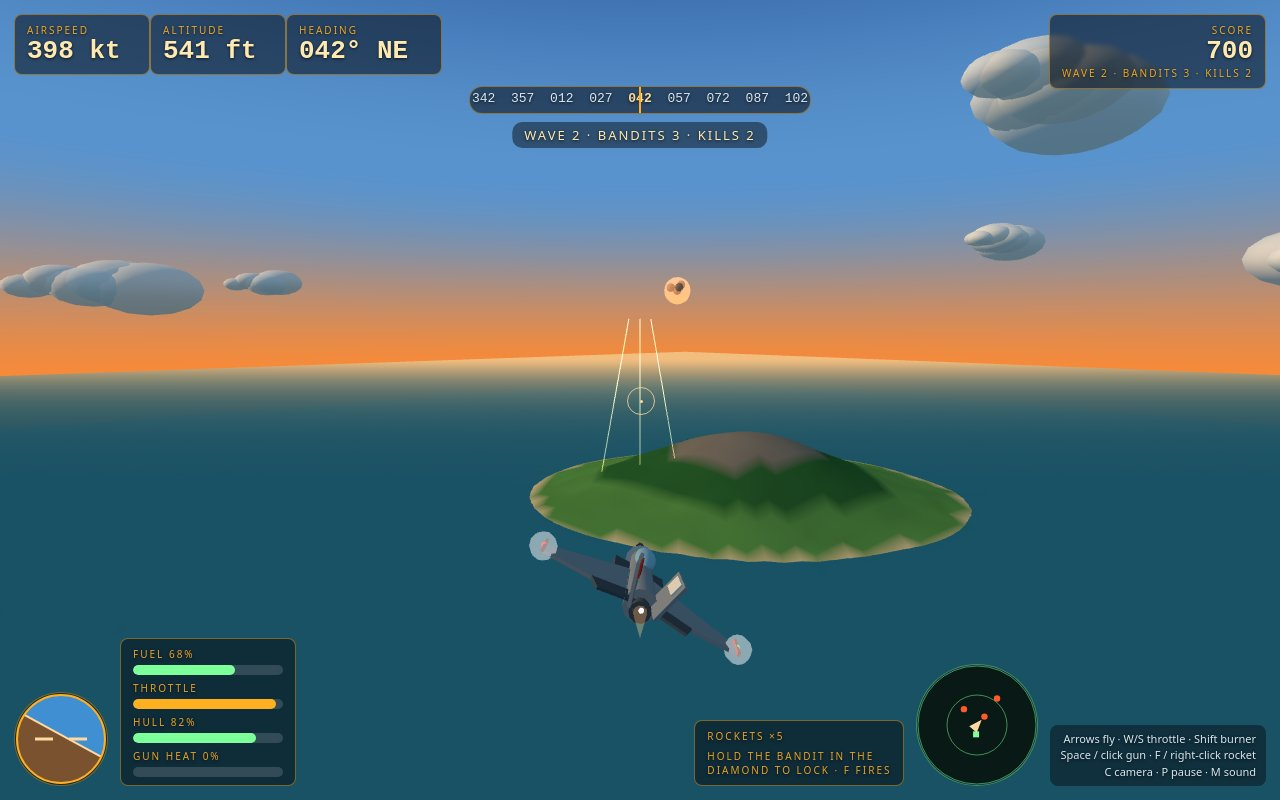
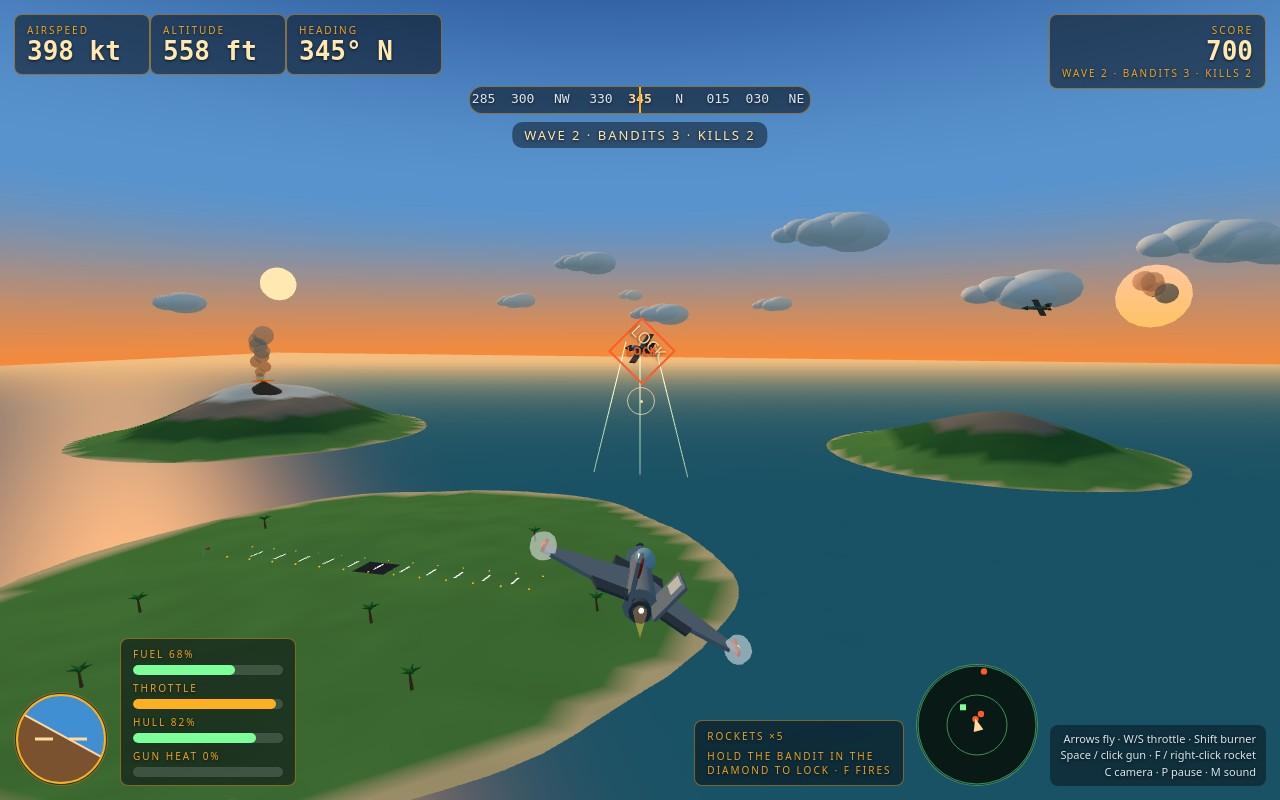
Cover: dogfight reads at a glance — bandit in the lock diamond, volcano + islands in frame
- Stage the play shot facing NW over the archipelago: smoking volcano
  left horizon, green island right, home island and runway below
- Bandit crosses the nose banked and close (~130 m) so its silhouette
  fills the lock diamond instead of a dead-astern speck; wingman breaks
  right, explosion in frame right
- Fix a real staging bug: enemy meshes only follow state in step(), which
  a staged shot never runs, so bandits sat at the origin — add
  enemy.pose() and call it from the play staging
- HUD lock diamond is projected through the chase camera, so update the
  HUD after the first snapped draw in runShot instead of before it

diff --git a/game/src/shots.js b/game/src/shots.js
@@ -31,9 +31,11 @@ export function stageShot(name, world, renderer, hud, combat) {
     return { screen: 'title', best: 0 };
   }
   if (name === 'play') {
-    // Mid-dogfight over the sea: the player is on a bandit's tail, the
-    // gun is firing, a second bandit breaks away and one more burns in
-    // the distance. Burner lit, lock solid, HUD alive.
+    // Mid-dogfight over the archipelago: the player is on a bandit's tail,
+    // the bandit close enough to fill the lock diamond, the smoking
+    // volcano on the left horizon, the green island on the right, and the
+    // home island below. A second bandit breaks away to the right and one
+    // more burns in the distance. Burner lit, lock solid, HUD alive.
     world.reset(false);
     s.wave = 2;
     s.kills = 2;
@@ -45,11 +47,18 @@ export function stageShot(name, world, renderer, hud, combat) {
     const bandit = world.enemies[0];
     const wingman = world.enemies[1];
     if (bandit) {
-      bandit.state.pos.set(180, 190, -260);
-      bandit.state.heading = Math.PI * 0.75;
+      // ~130 m ahead, crossing left across the nose and banked, so the
+      // bandit's wings and top show instead of a dead-astern speck: the
+      // silhouette fills the 44 px lock diamond.
+      bandit.state.pos.set(267, 178, 374);
+      bandit.state.heading = 1.06;
+      bandit.state.roll = 0.8;
       bandit.state.speed = 160;
       bandit.state.health = 7;
-      s.pos.set(20, 165, -80);
+      // Flying ~15 deg west of north from south-east of the map: the
+      // smoking volcano sits ~30 deg left of the nose on the horizon and
+      // the green island ~29 deg right, with the home island's sea below.
+      s.pos.set(300, 170, 500);
       s.heading = headingToward(s.pos, bandit.state.pos);
       s.pitch = -0.04;
       s.roll = -0.5;
@@ -84,14 +93,20 @@ export function stageShot(name, world, renderer, hud, combat) {
           z: s.pos.z - dir.z * (30 + i * 14),
         });
       }
+      // The mesh only follows the state in step(), which a staged shot
+      // never runs: pose it here or the bandit stays at the origin.
+      bandit.pose();
     }
     if (wingman) {
-      wingman.state.pos.set(-260, 240, -420);
-      wingman.state.heading = Math.PI * 0.3;
+      // Breaking away to the right, ~21 deg east of north and in frame.
+      wingman.state.pos.set(385, 190, 265);
+      wingman.state.heading = 0.9;
+      wingman.state.roll = -0.6;
       wingman.state.speed = 170;
+      wingman.pose();
     }
-    // A bandit that just blew up, burning off to the right.
-    combat.stageExplosion({ x: 420, y: 210, z: -480 }, 0.45);
+    // A bandit that just blew up, burning to the right of the nose.
+    combat.stageExplosion({ x: 434, y: 195, z: 232 }, 0.45);
     s.message = '';
     renderer.setCameraMode('chase');
     return { screen: 'play', best: 0 };

diff --git a/game/src/main.js b/game/src/main.js
@@ -88,7 +88,11 @@ function runShot(name) {
   overBest.textContent = `BEST ${best}`;
   overStats.textContent = `WAVE ${world.state.wave} · KILLS ${world.state.kills} · BANDITS DOWN ${world.state.kills}`;
   hud.update(world.state, world, renderer);
+  // Draw once first so the chase camera snaps to its staged spot: the
+  // lock diamond is projected through that camera, and updating the HUD
+  // before the snap leaves the diamond ~50 px off the bandit.
   renderer.draw(world, world.state.time, true, combat);
+  hud.update(world.state, world, renderer);
   let painted = 0;
   function paint() {
     renderer.draw(world, world.state.time, false, combat);

diff --git a/game/src/enemy.js b/game/src/enemy.js
@@ -207,6 +207,13 @@ export function createEnemy(random, groundHeight, spawnPos, heading, health) {
       }
       mesh.burnerMat.opacity = 0.25 + Math.sin(time * 31) * 0.08;
     },
+    // Sync the mesh to the staged state without stepping the pilot: a
+    // staged screenshot never runs the loop, so the mesh would otherwise
+    // sit at the origin. Same two lines step() paints every frame.
+    pose() {
+      mesh.group.position.copy(state.pos);
+      mesh.group.quaternion.setFromEuler(new THREE.Euler(state.pitch, state.heading, state.roll, 'YXZ'));
+    },
     damage(amount) {
       if (!state.alive) return false;
       state.health -= amount;
